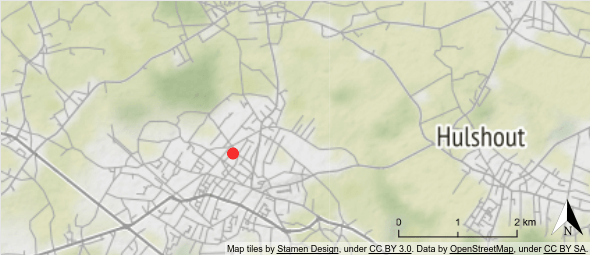
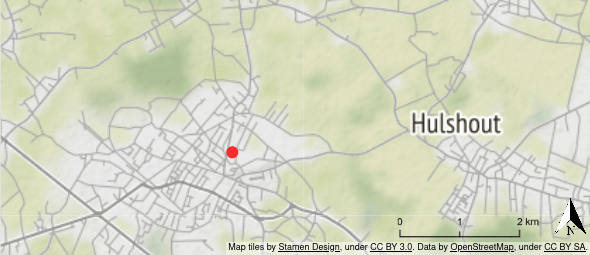
Deploying to gh-pages from  @ 800fbb17c4dad60d812472546df9a94f473e2f7c 🚀

diff --git a/service-worker.js b/service-worker.js
@@ -14,7 +14,7 @@
 importScripts("https://storage.googleapis.com/workbox-cdn/releases/4.3.1/workbox-sw.js");
 
 importScripts(
-  "/vlinder/precache-manifest.f531e7a95b6b7ac3d250930558aabda9.js"
+  "/vlinder/precache-manifest.2307d1c9c0108b173012e4120b226e40.js"
 );
 
 workbox.core.setCacheNameDetails({prefix: "vlinder-dashboard"});

diff --git a/precache-manifest.2307d1c9c0108b173012e4120b226e40.js b/precache-manifest.2307d1c9c0108b173012e4120b226e40.js
@@ -136,7 +136,7 @@ self.__precacheManifest = (self.__precacheManifest || []).concat([
     "url": "/vlinder/img/maps/vlinder31.png"
   },
   {
-    "revision": "c176f4c376003cf2fa606ba7ae575ced",
+    "revision": "3e2ad2b817a373c5da406112a47451a2",
     "url": "/vlinder/img/maps/vlinder32.png"
   },
   {
